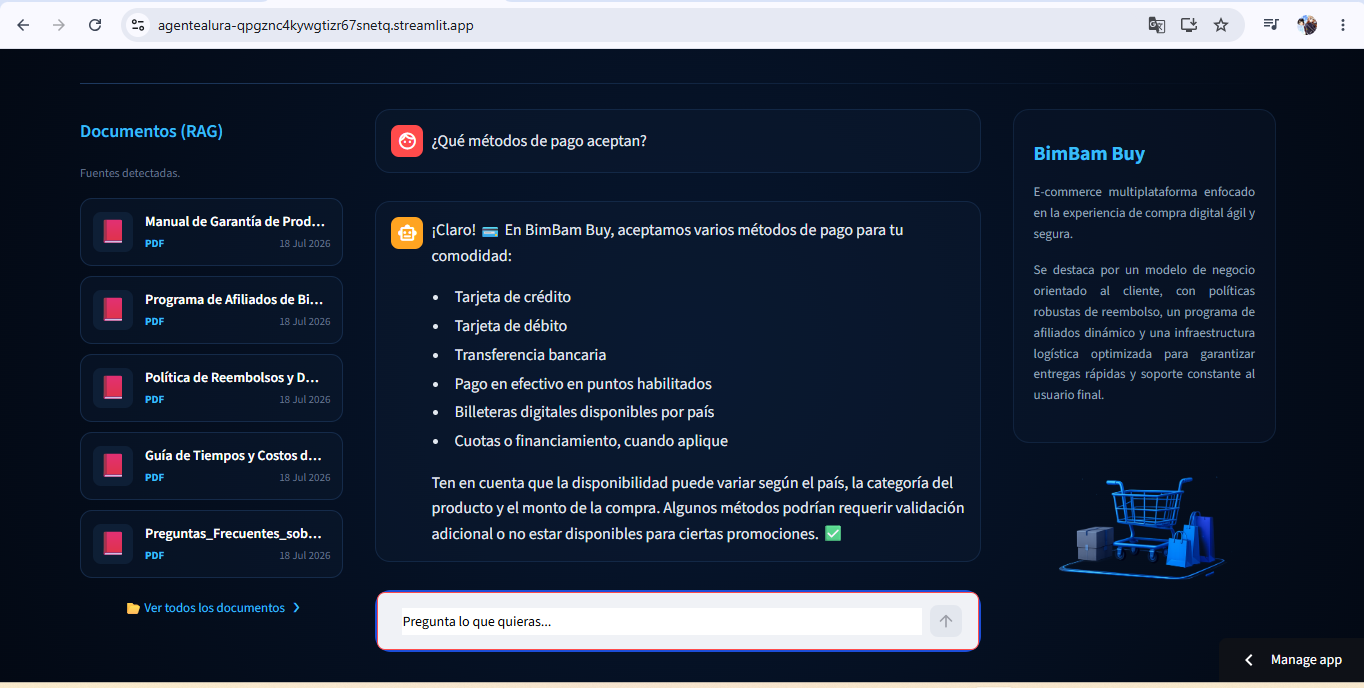
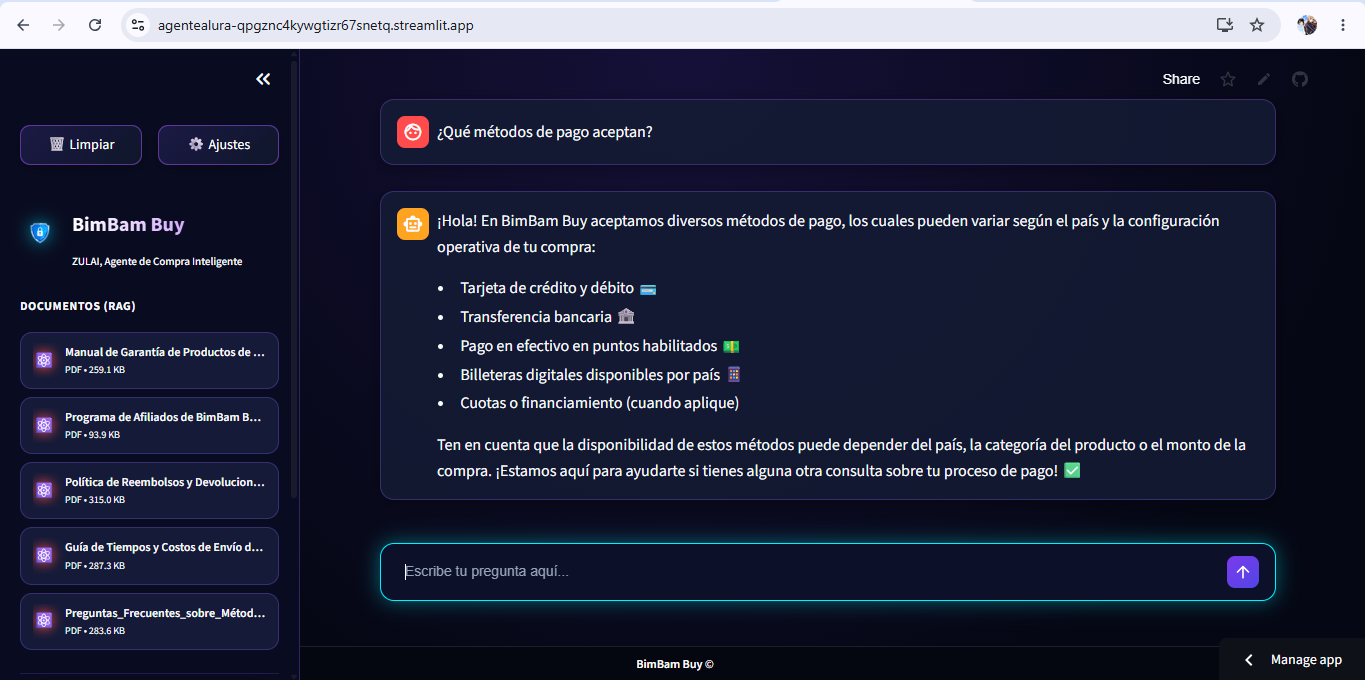
Cambio de imagen en assets y README

diff --git a/README.md b/README.md
@@ -371,16 +371,16 @@ http://localhost:8501
 ### Respuesta
 
 ```text
-¡Claro! 💳 En BimBam Buy, aceptamos varios métodos de pago para tu comodidad:
 
-• Tarjeta de crédito
-• Tarjeta de débito
-• Transferencia bancaria
-• Pago en efectivo en puntos habilitados
-• Billeteras digitales disponibles por país
-• Cuotas o financiamiento, cuando aplique
+¡Hola! En BimBam Buy aceptamos diversos métodos de pago, los cuales pueden variar según el país y la configuración operativa de tu compra:
 
-Ten en cuenta que la disponibilidad puede variar según el país, la categoría del producto y el monto de la compra. Algunos métodos podrían requerir validación adicional o no estar disponibles para ciertas promociones. ✅
+• Tarjeta de crédito y débito 💳
+• Transferencia bancaria 🏦
+• Pago en efectivo en puntos habilitados 💵
+• Billeteras digitales disponibles por país 📱
+• Cuotas o financiamiento (cuando aplique)
+
+Ten en cuenta que la disponibilidad de estos métodos puede depender del país, la categoría del producto o el monto de la compra. ¡Estamos aquí para ayudarte si tienes alguna otra consulta sobre tu proceso de pago! ✅
 ```
 ![respuesta](assets/metodos-pagos.png)
 ---
@@ -392,9 +392,15 @@ Ten en cuenta que la disponibilidad puede variar según el país, la categoría 
 ### Respuesta
 
 ```text
-¡Claro! La política de BimBam Buy establece las condiciones, plazos y pasos para las solicitudes de reembolso, buscando una experiencia clara y ágil. 📦
+¡Hola! Soy ZULAI, estoy aquí para ayudarte con tu consulta sobre nuestra política de reembolsos en BimBam Buy. 📦
 
-Una vez que tu reembolso es aprobado, se procesa en un plazo de entre 5 y 10 días hábiles, dependiendo del método de pago y el país de origen de la compra. 💳 Generalmente, los reembolsos se realizan al mismo medio de pago utilizado en la compra, salvo que haya una imposibilidad técnica o normativa.
+Aquí tienes los puntos clave sobre nuestro proceso:
+
+• Plazo de procesamiento: Una vez aprobado, el reembolso se gestiona en un periodo de 5 a 10 días hábiles, dependiendo del método de pago y el país de origen. 💳
+• Método de pago: Los reembolsos se realizan al mismo medio utilizado en la compra original. Si existe una imposibilidad técnica o normativa, nuestro equipo de pagos te ofrecerá una alternativa equivalente. ✅
+• Casos especiales: Si el caso requiere validación adicional con el operador logístico o análisis técnico, el plazo podría extenderse, informándote siempre sobre el estado del proceso. 🚚
+
+Si tienes alguna duda específica sobre un pedido o necesitas gestionar una solicitud, recuerda que puedes hacerlo a través de nuestros canales oficiales: centro de ayuda en la web, formulario de postventa, chat de soporte o correo de atención al cliente. ¡Estoy a tu disposición!
 ```
 ![respuesta](assets/politica-reembolso.png)
 ---
@@ -406,23 +412,13 @@ Una vez que tu reembolso es aprobado, se procesa en un plazo de entre 5 y 10 dí
 ### Respuesta
 
 ```text
-¡Hola! 📦 Los tiempos de entrega en BimBam Buy dependen de varios factores como el país, ciudad, zona de cobertura, tamaño y peso del producto, inventario, validaciones de pago y eventos operativos o climáticos.
+¡Hola! Con gusto te informo sobre nuestros tiempos de entrega 🚚. Estos dependen de la zona de destino y el tipo de producto, pero en condiciones normales manejamos los siguientes plazos:
 
-El proceso se divide en:
+• Zonas urbanas principales: 2 a 5 días hábiles.
+• Zonas secundarias: 4 a 8 días hábiles.
+• Zonas de cobertura extendida: 6 a 12 días hábiles.
 
-• Preparación del pedido:
-
-◦ Validación de pago: 0 a 1 día hábil 💳
-◦ Alistamiento y empaque: 1 a 2 días hábiles
-◦ Despacho al operador logístico: 1 día hábil adicional 🚚
-
-• Entrega estimada:
-
-◦ Zonas urbanas principales: 2 a 5 días hábiles ✅
-◦ Zonas secundarias: 4 a 8 días hábiles
-◦ Zonas de cobertura extendida: 6 a 12 días hábiles
-
-Ten en cuenta que en campañas especiales o alta demanda, los tiempos pueden ser superiores a los estimados.
+Ten en cuenta que, antes de la entrega, el pedido requiere un proceso de preparación que incluye la validación de pago (0 a 1 día), alistamiento y empaque (1 a 2 días) y el despacho al operador logístico (1 día adicional) ✅. En casos de alta demanda o eventos especiales, estos tiempos podrían extenderse, pero siempre te mantendremos informado 📦.
 ``` 
 ![respuesta](assets/tiempo-envio.png)
 ---
